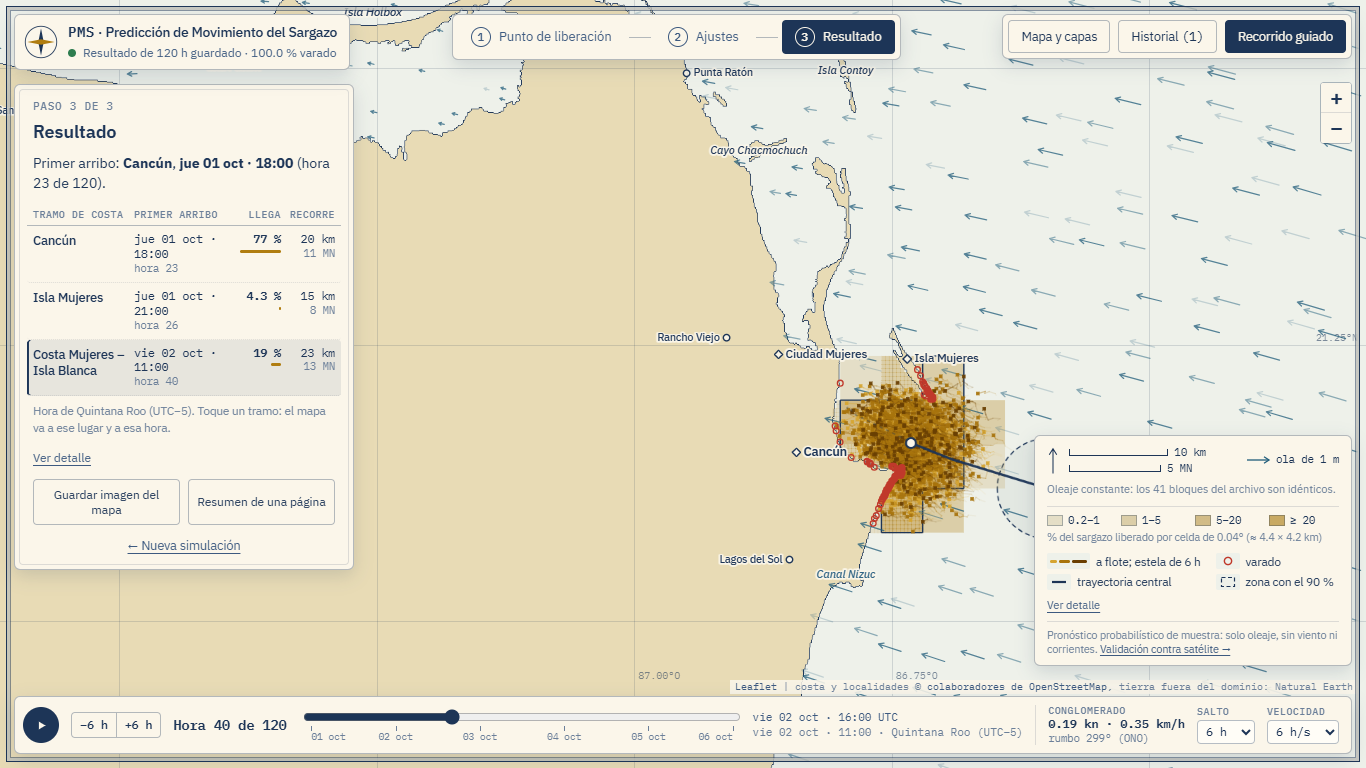
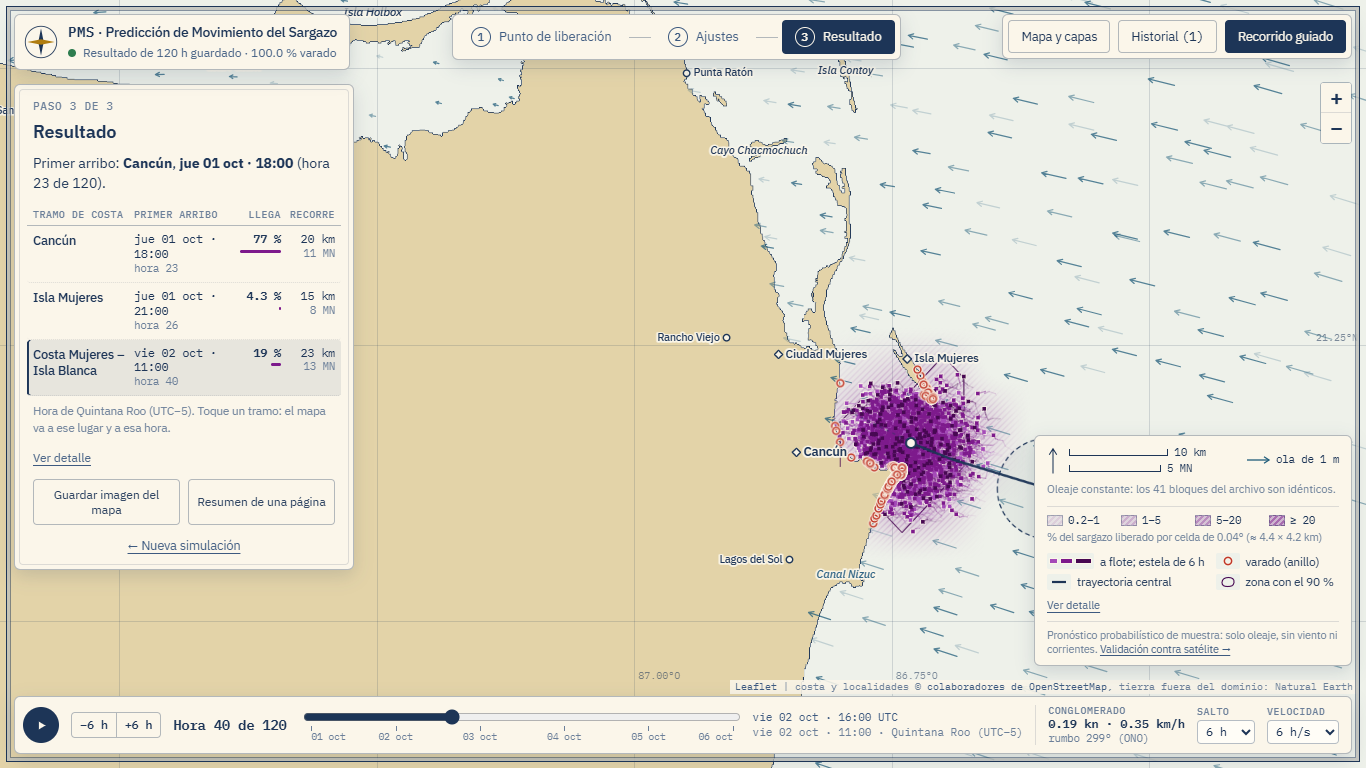
Capturas con la paleta nueva; el script espera las teselas del satélite
- capturar_pantalla.py espera a que Leaflet marque cargadas todas las teselas visibles
  y termina con error si alguna falta, en vez de guardar una captura incompleta
- La línea de la partícula del tooltip va en el color del sargazo

diff --git a/src/view/css/carta.css b/src/view/css/carta.css
@@ -241,7 +241,7 @@ input[type="range"] { width: 100%; accent-color: var(--tinta); }
 .tooltip { position: fixed; z-index: 1200; pointer-events: none; padding: 7px 10px; background: var(--papel-claro); border: 1px solid var(--tinta); border-radius: 4px; font: 12px/1.45 var(--mono); box-shadow: var(--sombra); white-space: nowrap; }
 .tooltip b { font-weight: 600; }
 .tooltip .tt-gm { color: var(--tinta-3); font-size: 11px; }
-.tooltip .tt-particula { margin-top: 4px; padding-top: 4px; border-top: 1px solid var(--linea-suave); color: var(--ambar); }
+.tooltip .tt-particula { margin-top: 4px; padding-top: 4px; border-top: 1px solid var(--linea-suave); color: var(--sargazo); }
 
 /* Velo cuando no hay datos o no son válidos */
 .velo { position: fixed; inset: 0; z-index: 760; display: grid; place-items: center; background: rgba(244, 236, 216, 0.82); }

diff --git a/scripts/capturar_pantalla.py b/scripts/capturar_pantalla.py
@@ -38,6 +38,27 @@ from src.config import ARCHIVO_OLEAJE, DIR_SEMAR  # noqa: E402
 
 DOCS = RAIZ / "docs"
 TAMANOS = [(1366, 768), (1920, 1080)]
+AVISOS: list[str] = []   # capturas que salieron incompletas; el script termina con error si hay alguna
+
+# Teselas de imagen visibles en el mapa que Leaflet aún no marca como cargadas.
+JS_TESELAS_PENDIENTES = """() => {
+  const caja = document.querySelector('#mapa').getBoundingClientRect();
+  return [...document.querySelectorAll('#mapa img.leaflet-tile')].filter(t => {
+    const r = t.getBoundingClientRect();
+    const visible = r.right > caja.left && r.left < caja.right && r.bottom > caja.top && r.top < caja.bottom;
+    return visible && !(t.classList.contains('leaflet-tile-loaded') && t.complete && t.naturalWidth > 0);
+  }).length;
+}"""
+
+
+def _esperar_teselas(pg, plazo_s: float = 60.0) -> int:
+    """Espera a que todas las teselas visibles del mapa base estén cargadas; devuelve las que faltan."""
+    fin = time.monotonic() + plazo_s
+    faltan = pg.evaluate(JS_TESELAS_PENDIENTES)
+    while faltan and time.monotonic() < fin:
+        pg.wait_for_timeout(500)
+        faltan = pg.evaluate(JS_TESELAS_PENDIENTES)
+    return faltan
 
 
 def _servidor(dir_semar: Path, dir_sims: Path):
@@ -142,11 +163,10 @@ def _sesion(nav, url, ancho, alto, sufijo):
     # Mapa base de satélite, con el panel de capas abierto.
     pg.click("#btn-capas")
     pg.check('input[name="base"][value="satelite"]')
-    try:
-        pg.wait_for_load_state("networkidle", timeout=20_000)
-    except Exception:  # noqa: BLE001 — sin internet la captura sale con las teselas que haya
-        pass
-    pg.wait_for_timeout(1500)
+    faltan = _esperar_teselas(pg)
+    if faltan:
+        AVISOS.append(f"satelite-{sufijo}.png: {faltan} teselas sin cargar (¿sin internet o EOX lento?)")
+    pg.wait_for_timeout(800)
     _captura(pg, DOCS / "capturas" / f"satelite-{sufijo}.png")
     pg.check('input[name="base"][value="carta"]')
     pg.click("#btn-capas")
@@ -192,7 +212,9 @@ def principal() -> int:
     for nombre in ("recorrido", "resultado", "arribos", "satelite", "listo", "error"):
         shutil.copy(DOCS / "capturas" / f"{nombre}-1366x768.png", DOCS / f"captura_{nombre}.png")
     shutil.copy(DOCS / "capturas" / "resumen-a4.png", DOCS / "captura_resumen.png")
-    return 0
+    for aviso in AVISOS:
+        print(f"[incompleta] {aviso}")
+    return 1 if AVISOS else 0
 
 
 if __name__ == "__main__":
